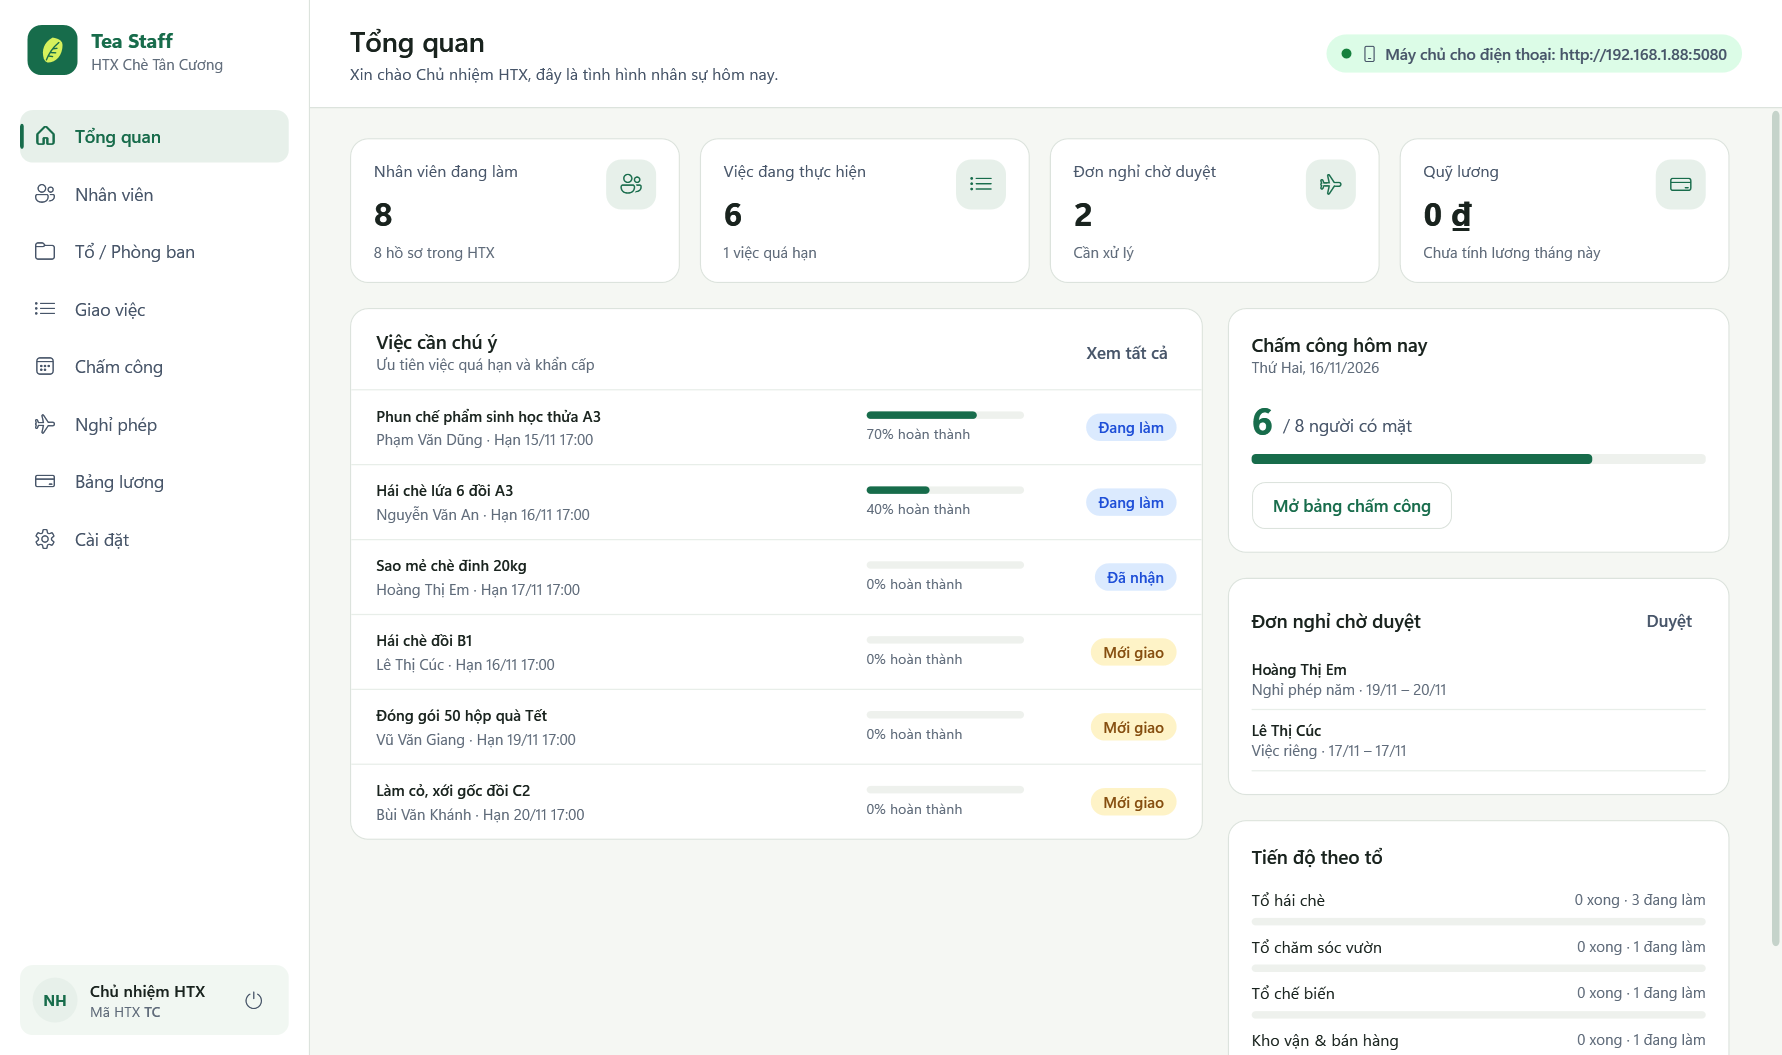
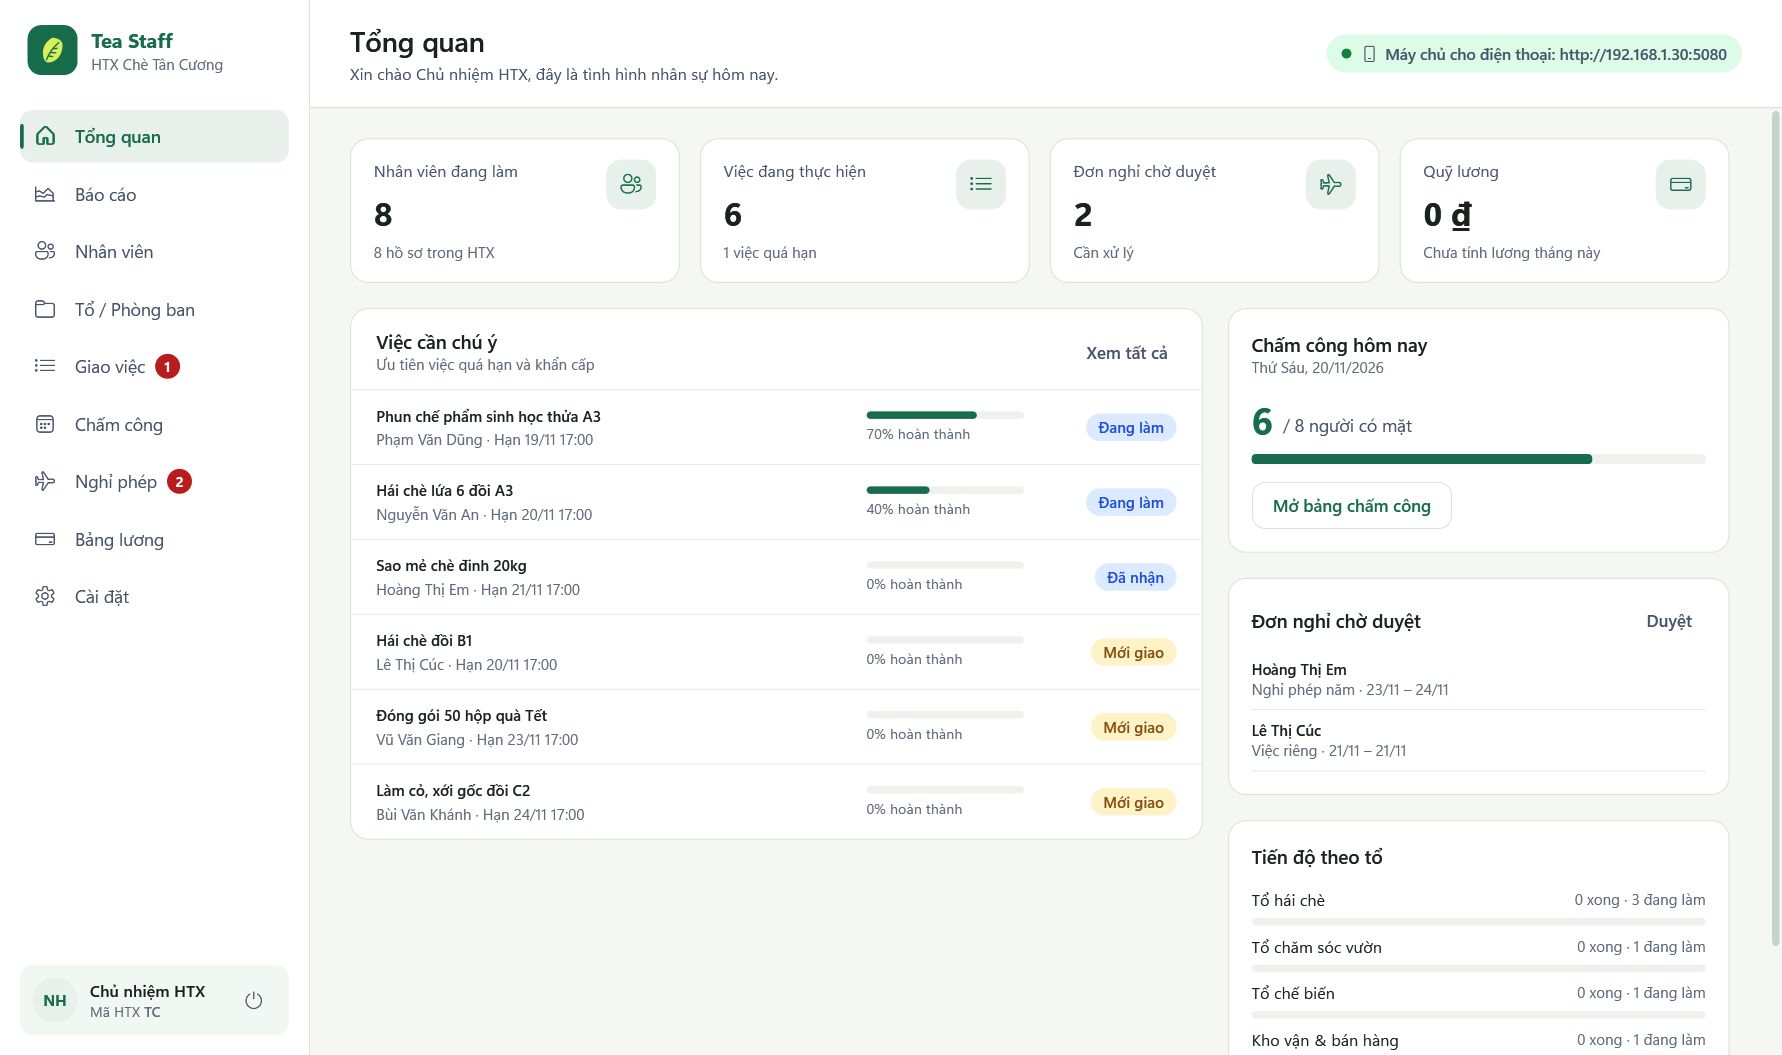
chore(apps): staff apps 1.1.0 notes, docs and screenshots

diff --git a/apps/staff-desktop/README.md b/apps/staff-desktop/README.md
@@ -26,22 +26,25 @@ Both apps follow the conventions of the OpenTea DX-OS core so they can later sha
 | Module | What it does |
 | --- | --- |
 | **Dashboard** | Active staff, open and overdue tasks, pending leave, payroll fund, today's attendance and progress per team. |
+| **Reports** | KPI tiles (overdue, not yet accepted, due in 3 days, pending leave, not checked in today, incomplete profiles) and charts drawn natively in WPF: task status bars, priority donut, daily task and attendance trends, six-month payroll fund and completed work per team, plus lists of what needs the owner. Period: 7, 30 or 90 days. |
+| **Live activity** | When staff accept, reject or finish a task, check in or send a leave request from the phone, the owner sees a toast, hears the system sound, the taskbar flashes and red counters appear on *Giao việc* and *Nghỉ phép*. |
 | **Employees** | Full HR profile: personal data, team, position, contract type, monthly or daily wage, allowance, bank account, annual leave quota, status. Accent-insensitive search (`nguyen` finds `Nguyễn`), filters, CSV export, mobile account and password reset. |
 | **Teams / departments** | Group staff into production teams (picking, processing, garden care, warehouse, office). |
-| **Task assignment** | Assign work with location, priority, start and due time. Staff accept, reject (with a reason), report progress and complete from their phone; the list refreshes live. Duplicate, reassign, cancel, export. |
+| **Task assignment** | Kanban board (Mới giao, Đã nhận, Đang làm, Hoàn thành, Từ chối/Huỷ) or list view. Assign work with location, priority, start and due time. Staff accept, reject (with a reason), report progress and complete from their phone; the list refreshes live. Duplicate, reassign, cancel, export. |
 | **Attendance** | Monthly timesheet grid. Staff check in/out on the phone (half day and overtime are computed automatically); the owner edits any cell, marks the whole cooperative present in one click, and exports CSV. |
-| **Leave** | Annual, sick, personal and unpaid leave with balance checking. Approving a request writes the days into the timesheet. |
+| **Leave** | Annual, sick, personal and unpaid leave with balance checking and **evidence** (photo or PDF, up to 5 MB; required for sick leave of 2 days or more). Files are recognised by content, stored under the data folder and opened from the review list. Approving a request writes the days into the timesheet. |
 | **Payroll** | Generates payslips from the timesheet: prorated monthly salary or daily wage, overtime (×1.5 by default), allowance, bonus, compulsory insurance (10.5% for full-time contracts), other deductions and advances. Draft → Approved → Paid workflow; approved payslips appear on the worker's phone. CSV export for bank transfer. |
-| **Settings** | Cooperative code and name, payroll rules, the built-in server for phones, and the connection to the DX-OS core (Keycloak + PostgreSQL). |
+| **Settings** | Cooperative code and name, payroll rules, the built-in server for phones with a **connection self-test** and a one-click **firewall rule**, and the connection to the DX-OS core (Keycloak + PostgreSQL) with a **connection check**. |
 
 <details>
 <summary><b>More screenshots</b></summary>
 
 | | |
 | --- | --- |
-| ![Login](docs/screenshots/00-login.png) | ![Employees](docs/screenshots/02-employees.png) |
-| ![Tasks](docs/screenshots/04-tasks.png) | ![Attendance](docs/screenshots/05-attendance.png) |
-| ![Payroll](docs/screenshots/07-payroll.png) | ![Settings](docs/screenshots/08-settings.png) |
+| ![Reports](docs/screenshots/02-reports.png) | ![Kanban](docs/screenshots/05-tasks.png) |
+| ![Login](docs/screenshots/00-login.png) | ![Employees](docs/screenshots/03-employees.png) |
+| ![Leave](docs/screenshots/07-leaves.png) | ![Attendance](docs/screenshots/06-attendance.png) |
+| ![Payroll](docs/screenshots/08-payroll.png) | ![Settings](docs/screenshots/09-settings.png) |
 
 </details>
 
@@ -49,7 +52,7 @@ Both apps follow the conventions of the OpenTea DX-OS core so they can later sha
 
 Grab the latest build from [**Releases**](https://github.com/Vudinhdat02/appManageStaff/releases):
 
-- `TeaStaffManager-1.0.0-win-x64.exe` — self-contained, single file, no .NET installation needed (Windows 10/11 x64).
+- `TeaStaffManager-1.1.0-win-x64.exe` — self-contained, single file, no .NET installation needed (Windows 10/11 x64).
 
 On first launch the app creates a demo cooperative (HTX code `TC`) with eight fictitious employees, a month of attendance, tasks and leave requests.
 
@@ -58,13 +61,14 @@ On first launch the app creates a demo cooperative (HTX code `TC`) with eight fi
 | `admin` | `Admin@123` | Owner login on the desktop app (change it in **Settings**) |
 | `nv001` … `nv008` | `123456` | Staff login on the Tea Work Android app |
 
-Data and configuration live in `%LOCALAPPDATA%\TeaStaff` (`teastaff.db`, `config.json`). Delete that folder to start over.
+Data and configuration live in `%LOCALAPPDATA%\TeaStaff` (`teastaff.db`, `config.json`, `attachments\`); set the `TEASTAFF_DATA` environment variable to use another folder. Delete the folder to start over. Databases created by 1.0.0 are upgraded automatically.
 
 ### Connect the phones
 
 1. Keep the PC and the phones on the same Wi-Fi network.
 2. The address to type into the phone is shown at the top right of the window, e.g. `http://192.168.1.88:5080`.
-3. On first start Windows may ask for firewall permission — allow **Private networks**.
+3. If the phone cannot connect, open **Settings → Kiểm tra kết nối**. On a Wi-Fi marked *Public*, Windows blocks incoming connections: press **Cho phép qua tường lửa** (Windows asks for administrator approval). Also make sure the phone is on Wi-Fi, not mobile data, and that the router does not isolate clients.
+4. A yellow banner on the phone means it is in offline demo mode; nothing is sent to the PC until you sign out and enter the server address.
 
 ## Build from source
 

diff --git a/apps/staff-mobile/README.md b/apps/staff-mobile/README.md
@@ -24,28 +24,29 @@ Tea Work is the **staff side** of a two-app system for agricultural cooperatives
 
 - **Tasks** — see what was assigned, with location, priority, deadline and requirements; accept or reject (with a reason), start, report progress with a slider and a note, and mark it done. Overdue work is highlighted; pull to refresh.
 - **Attendance** — live clock and one-tap check-in / check-out; monthly summary of work days, leave and overtime with a day-by-day history.
-- **Leave** — remaining annual leave, request annual, sick, personal or unpaid leave with date pickers, follow the approval status and cancel pending requests.
+- **Leave** — remaining annual leave, request annual, sick, personal or unpaid leave with date pickers and **evidence** (take a photo or attach an image/PDF; required for sick leave of 2 days or more), follow the approval status and cancel pending requests.
+- **Stays up to date** — tasks and leave decisions refresh every 30 seconds with a notice when something new arrives.
 - **Payslips** — approved and paid payslips with the full breakdown (earned salary, overtime, allowance, bonus, insurance, deductions, advances, net pay).
 - **Profile** — personal and contract details, change password, sign out.
-- **Offline demo** — "Dùng thử với dữ liệu mẫu" runs the whole app on sample data without a server.
+- **Offline demo** — "Dùng thử với dữ liệu mẫu" runs the whole app on sample data without a server; a yellow banner reminds that nothing is sent to the owner in this mode.
 
 <details>
 <summary><b>More screenshots</b></summary>
 
-<img src="docs/screenshots/01-login.png" width="200" /> <img src="docs/screenshots/05-leaves.png" width="200" /> <img src="docs/screenshots/06-payslips.png" width="200" /> <img src="docs/screenshots/07-profile.png" width="200" />
+<img src="docs/screenshots/01-login.png" width="200" /> <img src="docs/screenshots/05-leaves.png" width="200" /> <img src="docs/screenshots/08-leave-form.png" width="200" /> <img src="docs/screenshots/06-payslips.png" width="200" /> <img src="docs/screenshots/07-profile.png" width="200" />
 
 </details>
 
 ## Download
 
-Get `TeaWork-1.0.0.apk` from [**Releases**](https://github.com/Vudinhdat02/appReceiveWork/releases) and install it on Android 8.0 or newer (allow installing from this source when asked).
+Get `TeaWork-1.1.0.apk` from [**Releases**](https://github.com/Vudinhdat02/appReceiveWork/releases) and install it on Android 8.0 or newer (allow installing from this source when asked).
 
 ### Try it
 
 | Mode | How |
 | --- | --- |
 | Without a server | Tap **Dùng thử với dữ liệu mẫu** on the login screen. |
-| With the owner's PC | Start Tea Staff Manager, keep phone and PC on the same Wi-Fi, enter the address shown in the desktop app (e.g. `192.168.1.88:5080`) and sign in as `nv001` … `nv008`, password `123456`. |
+| With the owner's PC | Start Tea Staff Manager, keep phone and PC on the same Wi-Fi (if it does not connect, use **Settings → Kiểm tra kết nối / Cho phép qua tường lửa** on the PC), enter the address shown in the desktop app (e.g. `192.168.1.88:5080`) and sign in as `nv001` … `nv008`, password `123456`. |
 | Android emulator | Use server `10.0.2.2:5080` to reach the PC running Tea Staff Manager. |
 
 ## Build from source

diff --git a/CHANGELOG.md b/CHANGELOG.md
@@ -10,6 +10,7 @@ and this project adheres to [Semantic Versioning](https://semver.org/spec/v2.0.0
 ### Added
 
 - **Staff management clients** (`apps/staff-desktop`, `apps/staff-mobile`): *Tea Staff Manager*, a C# .NET 10 WPF app (MVVM) where the HTX owner manages employee records, teams, task assignment, a monthly timesheet, leave approval and payroll (prorated monthly salary or daily wage, overtime, allowance, bonus, compulsory insurance, advances; Draft, Approved, Paid), and *Tea Work*, a Kotlin Jetpack Compose app (MVVM) where staff accept and report tasks, check in and out, request leave and read payslips. The desktop app serves the phones over a small REST API (`docs/mobile-api.md`), stores data in SQLite or in the core schema `app_staff_work` (every table has `htx_code`), and signs in with a local owner account or the shared Keycloak account (realm `agrimarket`, role `manager`). Both follow `DESIGN.md`. Tests: xUnit for payroll and the task state machine, a Robolectric walkthrough of every mobile screen and an API contract test between the two apps.
+- **Staff apps 1.1** (`apps/staff-desktop`, `apps/staff-mobile`): leave requests carry evidence (photo or PDF, checked by content, required for sick leave of two days or more); a Reports page with KPI tiles and charts and a Kanban board for tasks; toasts, sound and red counters on the desktop when staff act on their phones; phone connection self-test, one-click firewall rule and a DX-OS core connection check in Settings; quiet 30-second refresh and an offline-demo banner on the phone.
 - **Keycloak client `dxos-mobile`**: a public PKCE client (S256; no password grant, no service account) for mobile apps, with the same scopes and roles as `nextjs-web` and the redirect URIs of the Android tour app and of the Flutter hub-mobile app (`docker/keycloak/realm-agrimarket.json`). `make mobile-client` adds it to a running realm and does nothing if it exists. Covered by `platform/tests/test_realm_policy.py`.
 
 - **View `telemetry.sensor_daily`** (`platform/postgres/init/07-telemetry-views.sql`): read-only daily summary of `telemetry.sensor_readings` per (`htx_code`, `parcel_code`, `sensor`, Vietnam day) with `reading_count`, `min_value`, `max_value`, `avg_value`, `first_ts`, `last_ts`. Tracked in Hasura as `telemetry_sensor_daily` with the same `htx_code` filter as the raw table for `manager` and `officer`; `farmer` has no access. Covered by `platform/tests/smoke-dataops.sh`.

diff --git a/apps/staff-desktop/CHANGELOG.md b/apps/staff-desktop/CHANGELOG.md
@@ -2,6 +2,20 @@
 
 All notable changes to this project are documented here. The format follows [Keep a Changelog](https://keepachangelog.com/en/1.1.0/) and the project uses [Semantic Versioning](https://semver.org/).
 
+## [1.1.0] - 2026-11-20
+
+### Added
+- **Reports** page with KPI tiles and native WPF charts (task status, priority share, daily task and attendance trends, payroll fund, completed work per team) and lists of items that need the owner.
+- **Kanban board** for task assignment, alongside the existing list view.
+- **Leave evidence**: photo or PDF attached from the phone or the desktop (max 5 MB, type checked by content); mandatory for sick leave of two days or more; opened from the leave list. API: `attachment` on `POST /api/leaves` and `GET /api/leaves/{id}/attachment`.
+- **Live activity**: toasts, sound, taskbar flash and red counters when staff act on their phones.
+- Settings: phone connection self-test, one-click firewall rule for the API port, and a DX-OS core connection check (Keycloak discovery and the `app_staff_work` schema).
+- `TEASTAFF_DATA` environment variable to choose the data folder.
+
+### Changed
+- Databases created by 1.0.0 gain the new leave columns on start-up (`database/postgres/002_leave_attachments.sql` for PostgreSQL).
+- Leave dates in the API are parsed strictly as `yyyy-MM-dd`.
+
 ## [1.0.0] - 2026-11-16
 
 ### Added
@@ -14,4 +28,5 @@ All notable changes to this project are documented here. The format follows [Kee
 - Command-line modes `--serve`, `--screenshots` and `--postgres-script`.
 - Demo cooperative seeded on first run; xUnit tests for payroll and the task state machine.
 
+[1.1.0]: https://github.com/Vudinhdat02/appManageStaff/releases/tag/v1.1.0
 [1.0.0]: https://github.com/Vudinhdat02/appManageStaff/releases/tag/v1.0.0

diff --git a/apps/staff-mobile/CHANGELOG.md b/apps/staff-mobile/CHANGELOG.md
@@ -2,6 +2,16 @@
 
 All notable changes to this project are documented here. The format follows [Keep a Changelog](https://keepachangelog.com/en/1.1.0/) and the project uses [Semantic Versioning](https://semver.org/).
 
+## [1.1.0] - 2026-11-20
+
+### Added
+- Leave evidence: take a photo or pick an image/PDF; photos are rotated upright, scaled to 1600 px and sent as JPEG. Required for sick leave of two days or more.
+- The task and leave tabs refresh quietly every 30 seconds and announce new tasks and leave decisions.
+- A banner shows when the app runs on offline demo data, so nothing is mistaken for being sent to the owner.
+
+### Changed
+- R8 keeps the API models and serializers explicitly.
+
 ## [1.0.0] - 2026-11-16
 
 ### Added
@@ -13,4 +23,5 @@ All notable changes to this project are documented here. The format follows [Kee
 - HTTP client for the Tea Staff Manager staff API and an offline demo mode with sample data.
 - Robolectric UI walkthrough test that also produces the README screenshots, and an API contract test against a running desktop server.
 
+[1.1.0]: https://github.com/Vudinhdat02/appReceiveWork/releases/tag/v1.1.0
 [1.0.0]: https://github.com/Vudinhdat02/appReceiveWork/releases/tag/v1.0.0

diff --git a/apps/staff-desktop/docs/mobile-api.md b/apps/staff-desktop/docs/mobile-api.md
@@ -19,7 +19,8 @@ All endpoints except `/api/health` and `/api/auth/login` need `Authorization: Be
 | POST | `/api/attendance/check-in` | – | `AttendanceRecord` |
 | POST | `/api/attendance/check-out` | – | `AttendanceRecord` |
 | GET | `/api/leaves` | – | `{remainingAnnualDays, items: Leave[]}` |
-| POST | `/api/leaves` | `{fromDate, toDate, type, reason}` (dates `yyyy-MM-dd`) | `Leave` |
+| POST | `/api/leaves` | `{fromDate, toDate, type, reason, attachment?: {fileName, dataBase64}}` (dates `yyyy-MM-dd`; evidence JPG/PNG/WEBP/PDF ≤ 5 MB, required for sick leave ≥ 2 days) | `Leave` (with `hasAttachment`, `attachmentName`) |
+| GET | `/api/leaves/{id}/attachment` | – | the evidence file of the caller's own request |
 | POST | `/api/leaves/{id}/cancel` | – | 204 (pending requests only) |
 | GET | `/api/payslips` | – | `Payslip[]` (approved and paid only) |
 

diff --git a/DEPENDENCIES.md b/DEPENDENCIES.md
@@ -211,6 +211,7 @@ affect the project's MIT licensing.
 | AndroidX Core KTX, Activity Compose, Lifecycle, SplashScreen | 1.19.1 / 1.13.0 / 2.11.0 / 1.2.0 | Apache-2.0 | Android platform support |
 | Jetpack Compose BOM (ui, material3, icons-extended) | 2026.09.00 | Apache-2.0 | UI toolkit |
 | [kotlinx.serialization JSON](https://github.com/Kotlin/kotlinx.serialization) | 1.12.0 | Apache-2.0 | JSON models |
+| AndroidX ExifInterface | 1.4.2 | Apache-2.0 | Upright evidence photos |
 | Android Gradle Plugin / Kotlin / Gradle wrapper (build) | 9.5.1 / 2.4.21 / 9.9.0 | Apache-2.0 | Build toolchain |
 | [Robolectric](https://github.com/robolectric/robolectric) (test) | 4.17 | MIT | JVM UI tests |
 | JUnit 4 (test) | 4.13.2 | EPL-1.0 | Unit tests |

diff --git a/apps/staff-mobile/DEPENDENCIES.md b/apps/staff-mobile/DEPENDENCIES.md
@@ -10,6 +10,7 @@ Libraries are resolved by Gradle from Google Maven and Maven Central (see `gradl
 | AndroidX Core SplashScreen | 1.2.0 | Apache-2.0 | Launch screen |
 | Jetpack Compose BOM (ui, material3, material-icons-extended) | 2026.09.00 | Apache-2.0 | UI toolkit and icons |
 | kotlinx.serialization JSON | 1.12.0 | Apache-2.0 | JSON encoding of API models |
+| AndroidX ExifInterface | 1.4.2 | Apache-2.0 | Rotate evidence photos upright before upload |
 | Kotlin standard library | 2.4.21 | Apache-2.0 | Language runtime |
 
 Build and test only:
